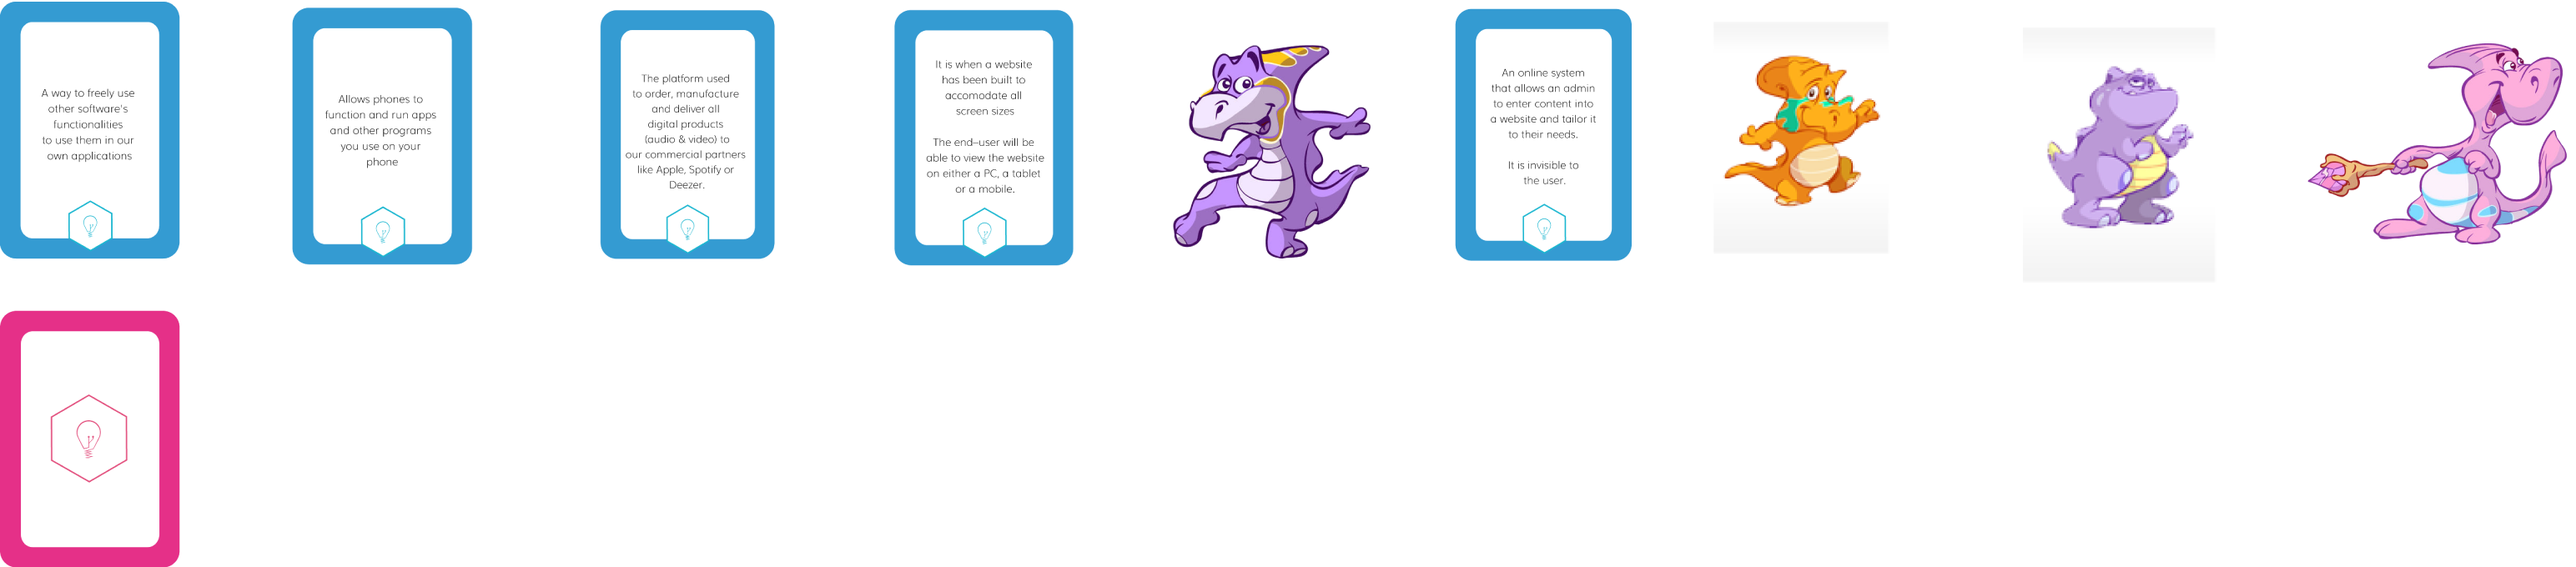
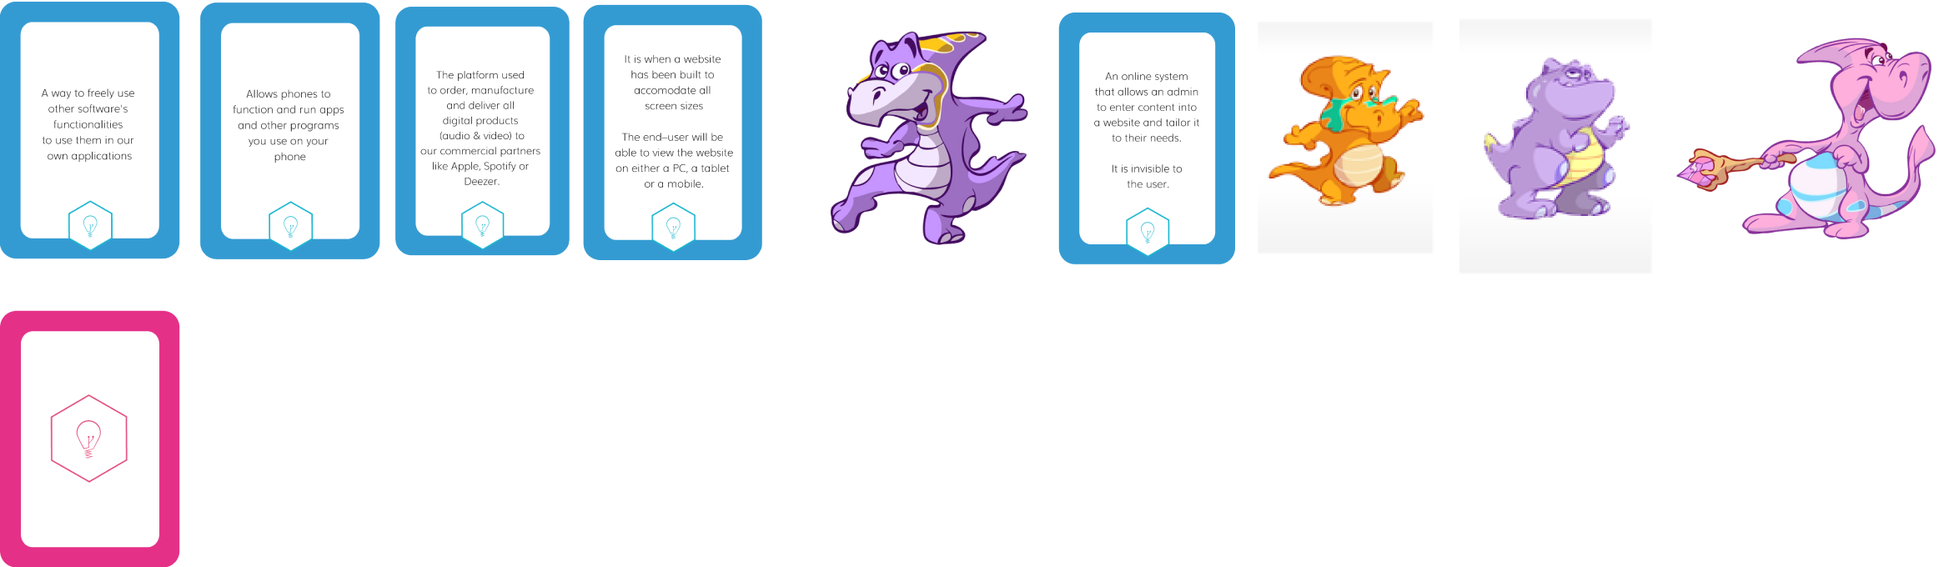
sizes

diff --git a/css/css3transition.css b/css/css3transition.css
@@ -10,8 +10,8 @@ padding: 5px;
 /* Define the 3D perspective view and dimension of each card. */
 .card {
 -webkit-perspective: 600;
-width: 113px;
-height: 159px;
+width: 100%;
+height: 100%;
 }
 
 .face {

diff --git a/css/dinogamev2.css b/css/dinogamev2.css
@@ -50,8 +50,8 @@ body {
 
 #game {
 	background: #001711;
-	width: 860px;
-	height: 570px;
+	width: 760px;
+	height: 470px;
 	margin: 0 auto;
 	display: block;
 	-moz-box-shadow: 0px 3px 12px #000;
